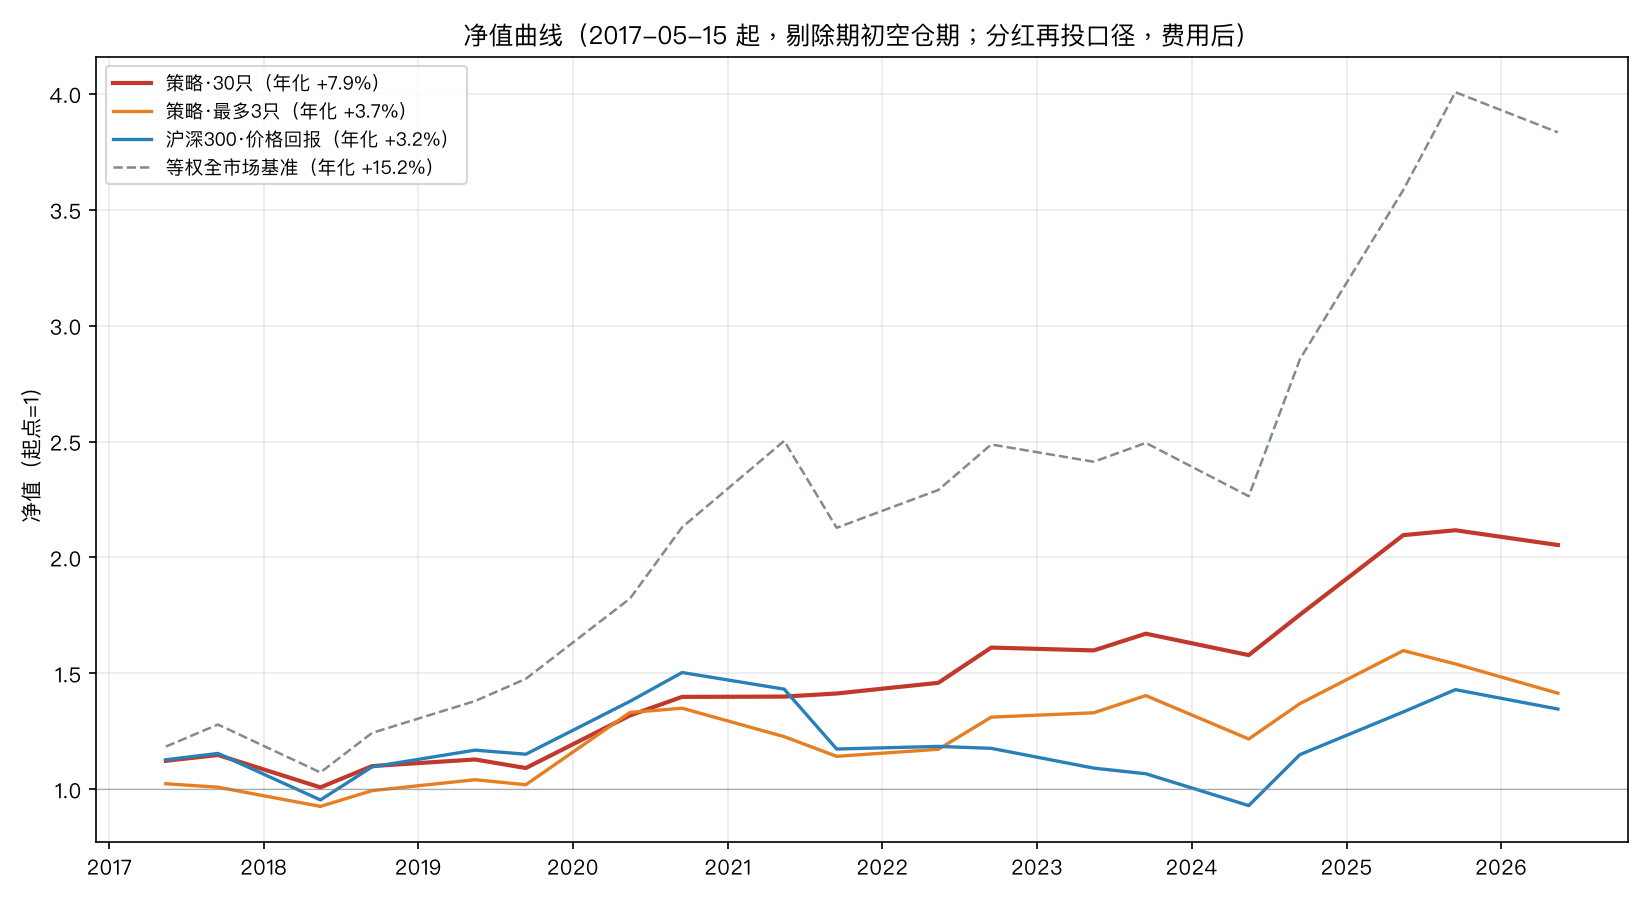
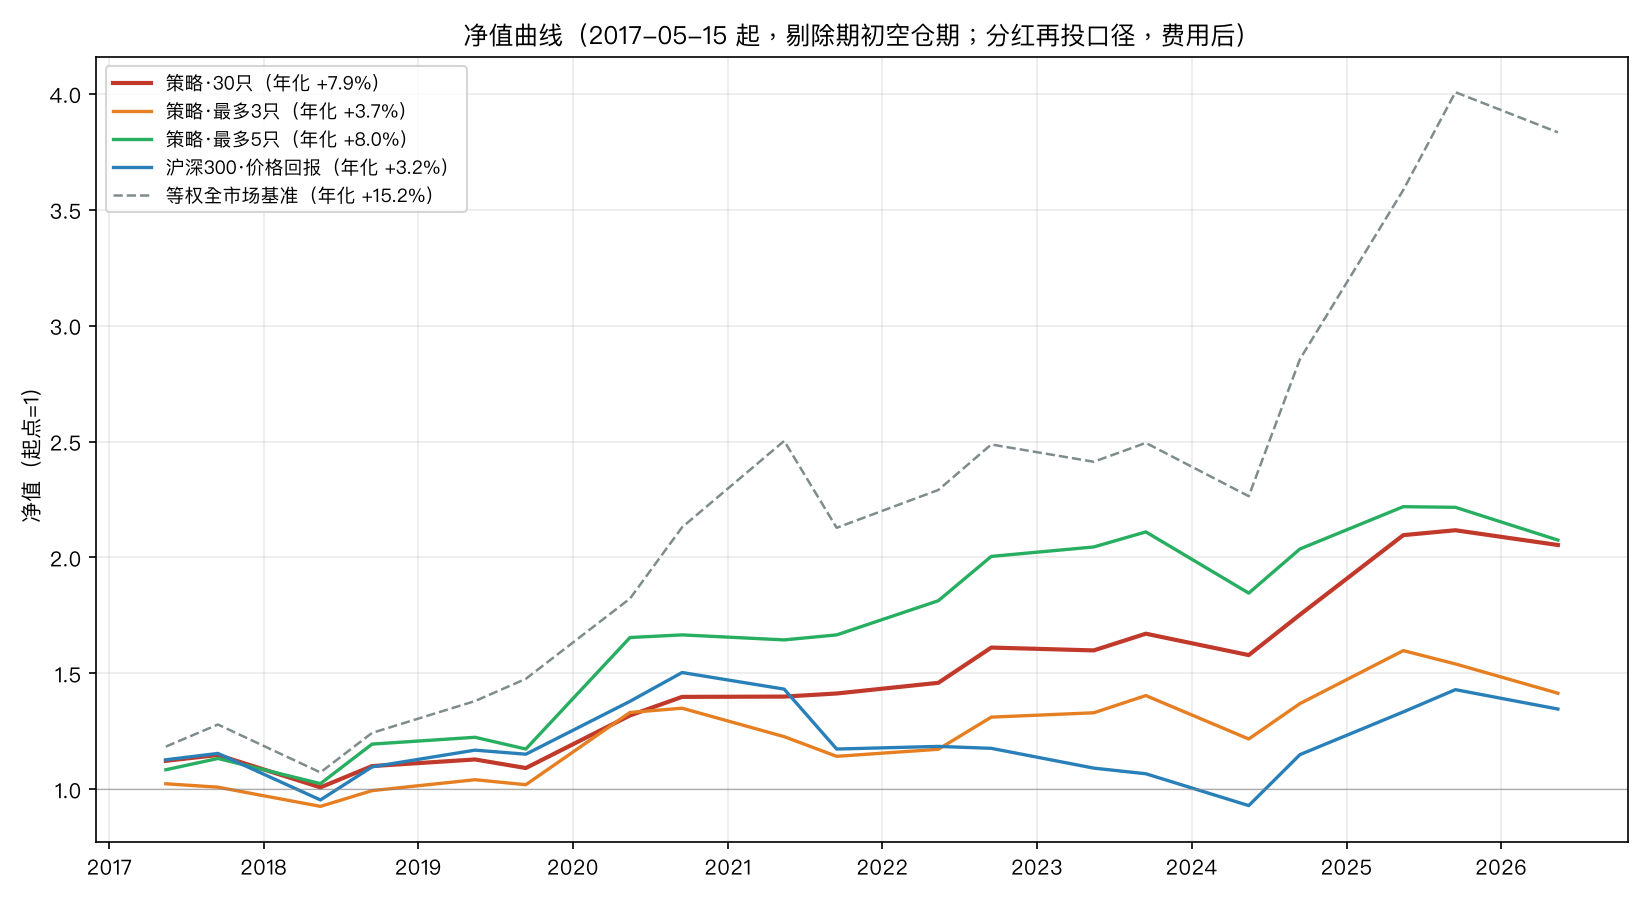
feat(图表): 净值曲线增加"最多5只"线 + 手数表补5只版
regen_charts.py 新增 r5(max_holdings=5) 回测与绿色曲线(年化+8.0%)，
positions 手数表补充"最多5只版"；两份综合报告净值曲线说明同步更新为含5只对比。

diff --git a/tests/regen_charts.py b/tests/regen_charts.py
@@ -43,20 +43,25 @@ r30 = run_backtest(store, cfg, "2013-01-01", "2026-12-31",
                    label="30只", benchmark="sh000300")
 r3 = run_backtest(store, cfg, "2013-01-01", "2026-12-31",
                   label="3只", benchmark="sh000300", max_holdings=3)
+r5 = run_backtest(store, cfg, "2013-01-01", "2026-12-31",
+                  label="5只", benchmark="sh000300", max_holdings=5)
 req = run_backtest(store, cfg, "2013-01-01", "2026-12-31",
                    label="等权", benchmark="equal")
 
-s30, s3 = r30["stats"], r3["stats"]
+s30, s3, s5 = r30["stats"], r3["stats"], r5["stats"]
 eff = r30["effective_start"]
 
 # --------------------------------------------------------------- 净值曲线
 fig, ax = plt.subplots(figsize=(11, 6))
 nav30 = r30["nav"]
 nav3 = r3["nav"].reindex(nav30.index)
+nav5 = r5["nav"].reindex(nav30.index)
 ax.plot(nav30.index, nav30["nav"], lw=2.0, color="#c0392b",
         label=f"策略·30只（年化 {s30['cagr']:+.1%}）")
 ax.plot(nav30.index, nav3["nav"], lw=1.6, color="#e67e22",
         label=f"策略·最多3只（年化 {s3['cagr']:+.1%}）")
+ax.plot(nav30.index, nav5["nav"], lw=1.6, color="#27ae60",
+        label=f"策略·最多5只（年化 {s5['cagr']:+.1%}）")
 ax.plot(nav30.index, nav30["bench"], lw=1.6, color="#2980b9",
         label=f"沪深300·价格回报（年化 {s30['bench_cagr']:+.1%}）")
 ax.plot(nav30.index, req["nav"]["bench"].reindex(nav30.index), lw=1.2,
@@ -99,7 +104,7 @@ lines = [
     "# 建仓手数参考表（z 版评分｜本金 100 万元）", "",
     "> 调仓日：2026-05-15｜真实价 close_raw｜1 手=100 股向下取整", "",
 ]
-for title, res in (("30只版", r30), ("最多3只版", r3)):
+for title, res in (("30只版", r30), ("最多3只版", r3), ("最多5只版", r5)):
     w = holdings_at(res, ASOF)
     lines += [f"## {title}", "",
               "| 名称 | 权重 | 价 | 目标手数 | 占用资金(元) |",
@@ -119,11 +124,12 @@ for title, res in (("30只版", r30), ("最多3只版", r3)):
                 lines.append(f"| {uni.get(c, c)} | {wt:.1%} | — | — | — |")
     lines.append("")
 lines += ["---", "",
-          f"> 30只版年化 {s30['cagr']:+.2%}｜最多3只版年化 {s3['cagr']:+.2%}"
+          f"> 30只版年化 {s30['cagr']:+.2%}｜最多3只版年化 {s3['cagr']:+.2%}｜最多5只版年化 {s5['cagr']:+.2%}"
           f"｜沪深300（价格回报）{s30['bench_cagr']:+.2%}"
           f"｜30只版超额 {s30['excess_cagr']:+.2%}/IR {s30['information_ratio']:.2f}。", ""]
 (OUT / "positions-100w-2026-05-15.md").write_text("\n".join(lines), encoding="utf-8")
 print("→ out/positions-100w-2026-05-15.md")
-print(f"30只: cagr={s30['cagr']:.2%} excess_hs300={s30['excess_cagr']:.2%} "
+print(f"30只: cagr={s30['cagr']:.2%} excess_hs300={s30['excess_cagr']:+.2%} "
       f"IR={s30['information_ratio']:.2f} 持仓={s30['avg_holdings']:.1f} 换手={s30['avg_turnover']:.1%}")
-print(f"3只:  cagr={s3['cagr']:.2%} excess_hs300={s3['excess_cagr']:.2%}")
+print(f"3只:  cagr={s3['cagr']:.2%} excess_hs300={s3['excess_cagr']:+.2%}")
+print(f"5只:  cagr={s5['cagr']:.2%} excess_hs300={s5['excess_cagr']:+.2%}")

diff --git a/out/positions-100w-2026-05-15.md b/out/positions-100w-2026-05-15.md
@@ -45,6 +45,16 @@
 | 圆通速递 | 29.7% | 20.19 | 147 | 296,757 |
 | 新奥股份 | 29.7% | 20.95 | 141 | 295,339 |
 
+## 最多5只版
+
+| 名称 | 权重 | 价 | 目标手数 | 占用资金(元) |
+|------|------|------|---------|------------|
+| 分众传媒 | 17.8% | 5.93 | 300 | 177,803 |
+| 圆通速递 | 17.8% | 20.19 | 88 | 177,650 |
+| 新奥股份 | 17.8% | 20.95 | 85 | 178,041 |
+| 海康威视 | 17.8% | 33.52 | 53 | 177,676 |
+| 新 和 成 | 17.8% | 32.89 | 54 | 177,616 |
+
 ---
 
-> 30只版年化 +7.87%｜最多3只版年化 +3.72%｜沪深300（价格回报）+3.18%｜30只版超额 +4.69%/IR 0.45。
+> 30只版年化 +7.87%｜最多3只版年化 +3.72%｜最多5只版年化 +7.99%｜沪深300（价格回报）+3.18%｜30只版超额 +4.69%/IR 0.45。

diff --git a/out/回测综合报告-top5.md b/out/回测综合报告-top5.md
@@ -4,7 +4,7 @@
 
 > 本报告整合三部分：**策略收益** / **交易台账** / **调仓原因**。
 
-> 净值曲线对比图见 [nav-curve.png](./nav-curve.png)（含策略30只/3只/等权/沪深300，供横向对比参考）。
+> 净值曲线对比图见 [nav-curve.png](./nav-curve.png)（含策略 30只/5只/3只/等权/沪深300 对比）。
 
 
 ---

diff --git a/out/回测综合报告.md b/out/回测综合报告.md
@@ -4,7 +4,7 @@
 
 > 本报告整合三部分：**策略收益** / **交易台账** / **调仓原因**，以及净值曲线图。
 
-> 净值曲线见 [nav-curve.png](./nav-curve.png)。
+> 净值曲线见 [nav-curve.png](./nav-curve.png)（含策略 30只/5只/3只/等权/沪深300 对比）。
 
 
 ---
